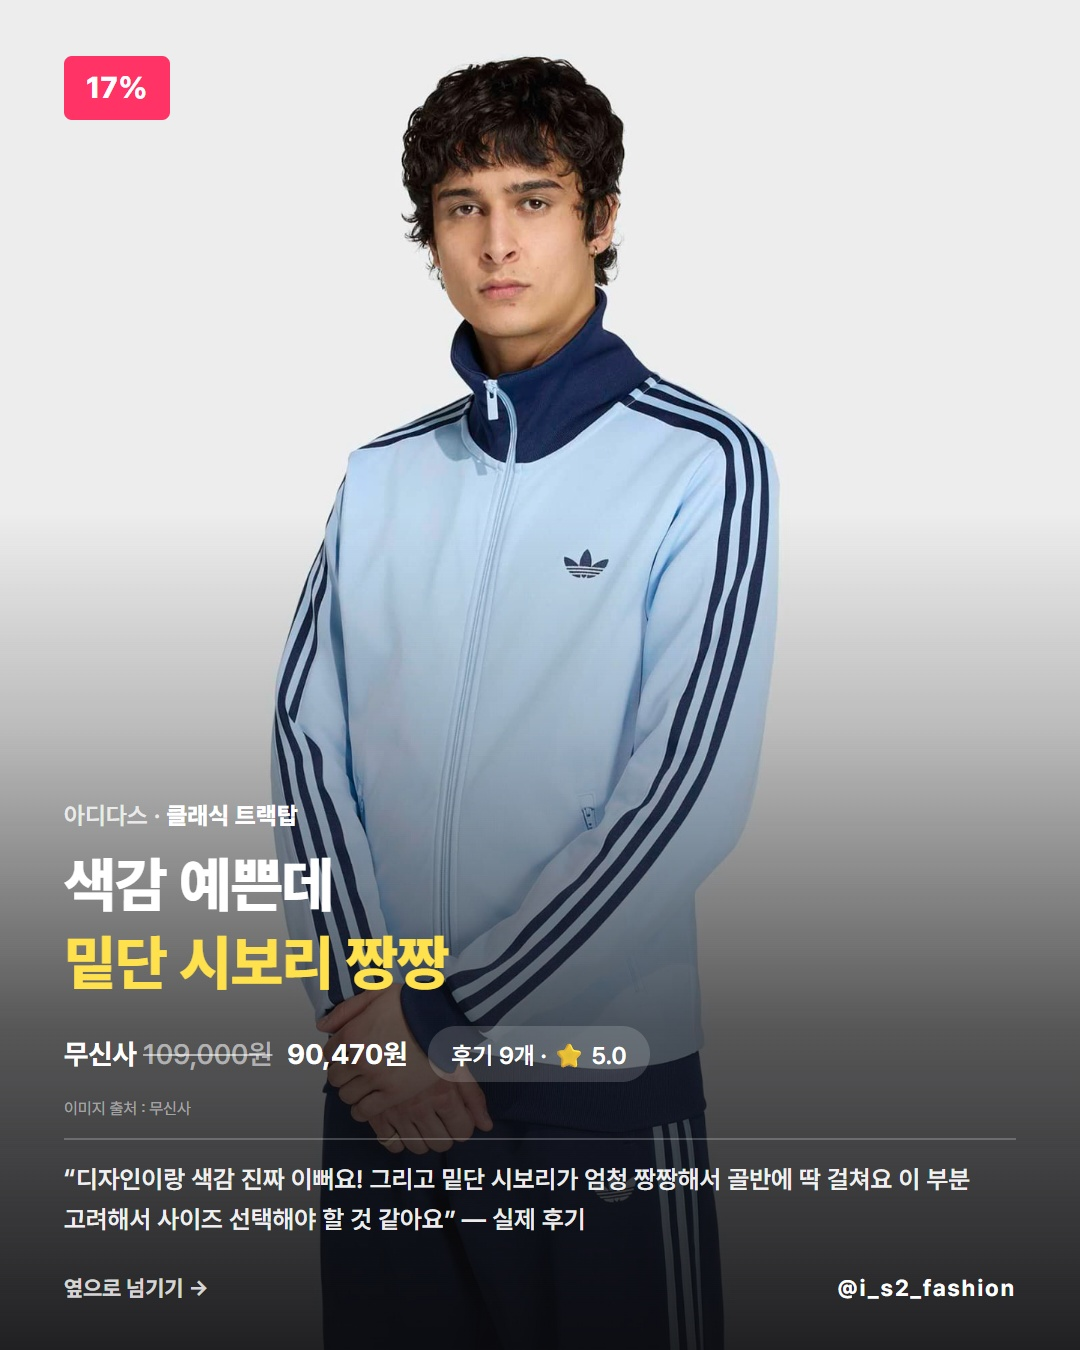
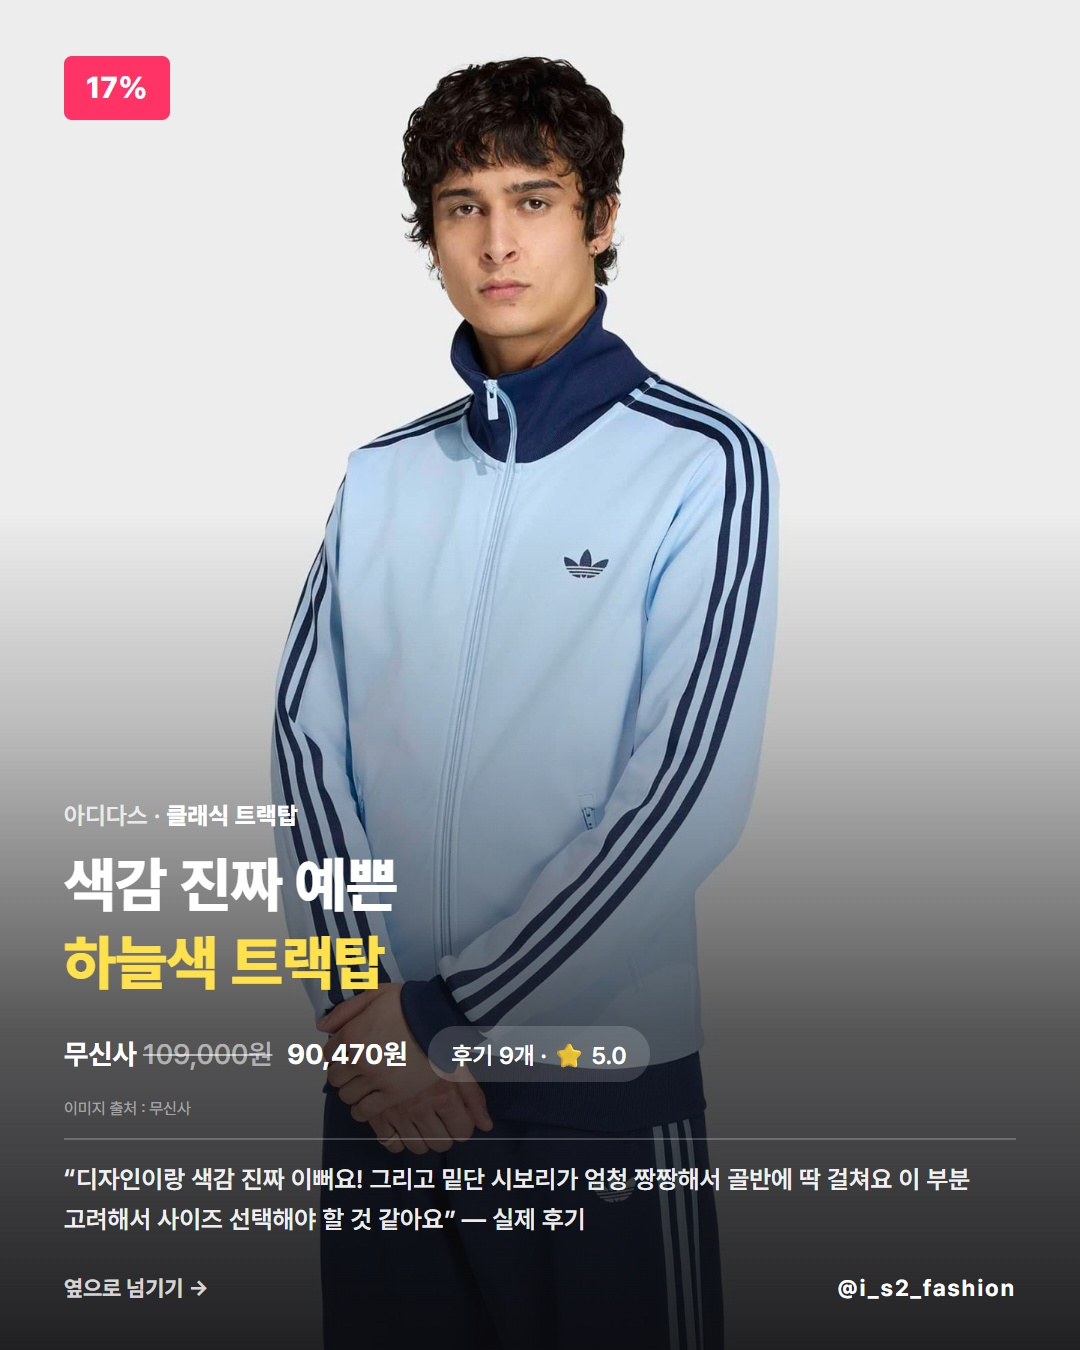
chore: auto-commit by Claude Code (2026-09-04 02:33:49)

Changed region(s): [[0.0611, 0.6222, 0.4278, 0.7467]]

diff --git a/card-drafts/early-autumn-outer/index.html b/card-drafts/early-autumn-outer/index.html
@@ -64,7 +64,7 @@ const cards=[
 {kind:'item',img:'assets/02-decoroso.jpg',pos:'50% 12%',lab:'데꼬로소',badge:'36%',prod:'데꼬로소 · <b>스웨이드 집업 블루종 자켓</b>',title:'툭 걸쳐도<br><em>가을 무드 완성</em>',meta:'무신사 <s>154,000원</s> 98,500원',proof:'후기 59개 · ⭐ 4.9',sp:'“스웨이드 자켓의 근본은 역시 카멜이죠 차분하고 깊이감 있는 톤 다운된 카멜 컬러라 부드러운 스웨이드 질감과 따뜻한 카멜 색상이 만나니 자켓 하나만 툭 걸쳐도 가을에 괜찮게 꾸민느낌으로 멋 낼 수 있어서서 좋더라고요” —&nbsp;실제&nbsp;후기'},
 {kind:'item',img:'assets/03-mixxo-cuff.jpg',pos:'50% 12%',lab:'미쏘',badge:'24%',prod:'미쏘 · <b>하프 트렌치코트</b>',title:'소매를 접으면<br><em>디테일이 보여</em>',meta:'무신사 <s>129,000원</s> 98,040원',proof:'후기 15개 · ⭐ 5.0',sp:'“봄가을에 너무너무 잘 입을거 같아요! 소매 안감 디테일도 너무 귀엽구 .. 색도 맘에들어요🫰🏻🤍 사이즈 s인데도 겁나 커요,, 매장에서 입어보고 온라인주문 추천합니댜 ㅎㅎ” —&nbsp;실제&nbsp;후기'},
 {kind:'item',img:'assets/04-calvin-studio-back.jpg',pos:'50% 12%',lab:'캘빈클라인 진',badge:'40%',prod:'캘빈클라인 진 · <b>콘트라스트 스티치 윈드브레이커</b>',title:'가볍게 걸치고<br><em>뒤는 확실하게</em>',meta:'무신사 <s>219,000원</s> 131,400원',proof:'후기 98개 · ⭐ 4.9',sp:'“뒤에 백로고가 너무 예뻐요. 간절기에 들고 다니고 걸치기 좋은 두께감입니다. 가벼워요” —&nbsp;실제&nbsp;후기'},
-{kind:'item',img:'assets/05-adidas-big.jpg',pos:'50% 12%',lab:'아디다스',badge:'17%',prod:'아디다스 · <b>클래식 트랙탑</b>',title:'색감 예쁜데<br><em>밑단 시보리 짱짱</em>',meta:'무신사 <s>109,000원</s> 90,470원',proof:'후기 9개 · ⭐ 5.0',sp:'“디자인이랑 색감 진짜 이뻐요! 그리고 밑단 시보리가 엄청 짱짱해서 골반에 딱 걸쳐요 이 부분 고려해서 사이즈 선택해야 할 것 같아요” —&nbsp;실제&nbsp;후기'},
+{kind:'item',img:'assets/05-adidas-big.jpg',pos:'50% 12%',lab:'아디다스',badge:'17%',prod:'아디다스 · <b>클래식 트랙탑</b>',title:'색감 진짜 예쁜<br><em>하늘색 트랙탑</em>',meta:'무신사 <s>109,000원</s> 90,470원',proof:'후기 9개 · ⭐ 5.0',sp:'“디자인이랑 색감 진짜 이뻐요! 그리고 밑단 시보리가 엄청 짱짱해서 골반에 딱 걸쳐요 이 부분 고려해서 사이즈 선택해야 할 것 같아요” —&nbsp;실제&nbsp;후기'},
 {kind:'cta',img:'../../CARD/zzal/20260830.jpg',lab:'CTA',title:'다 사고 싶지만<br><em>통장은 하나</em>',sub:'이번 가을 가장 먼저 살 한 벌부터<br>골라서 저장해두세요'}];
 function html(c,i){const handle='@i_s2_fashion';if(c.kind==='cta'){return `<div class="card cta" id="card${i}"><div class="toprow"><span class="handle">&nbsp;</span><span class="num">&nbsp;</span></div><div class="photo"><img src="${c.img}" alt="" onload="sizePhoto(this)"></div><div class="caption"><h2 class="title">${c.title}</h2><p class="sub">${c.sub}</p></div><div class="foot">${handle}</div></div>`}
 let photo=`<div class="photo"><img src="${c.img}" alt="" style="--pos:${c.pos||'50% 15%'}">${c.badge?`<span class="badge">${c.badge}</span>`:''}</div>`;

diff --git a/card-drafts/early-autumn-outer/result.md b/card-drafts/early-autumn-outer/result.md
@@ -77,6 +77,10 @@
     상품 사진(1500×1800, 5:6)과 카드(4:5) 비율이 거의 같아 옷이 거의 잘리지 않는다. 페이지 번호(N/7) 삭제, `@i_s2_fashion`은 모든 카드 오른쪽 하단.
     표지 헤드라인 42px·상품 30px·인용 12.5px. 할인 배지는 왼쪽 위. CTA는 짤 카드 유지, 숫자만 빼고 계정명 오른쪽 하단으로 통일.
 
+17. **자체 피드백 라운드 4 (09-05 · 전면 이미지형 7장 전수)** — 6번 아디다스: 헤드라인이 "밑단 시보리"인데 전면 이미지형에서는 밑단이
+    하단 텍스트·그라데이션 아래에 깔려 잘 안 보인다 → 같은 후기의 첫 문장("디자인이랑 색감 진짜 이뻐요")으로 **"색감 진짜 예쁜 / 하늘색 트랙탑"** 복귀.
+    사진에서 실제로 보이는 것(하늘색 색감)을 헤드라인이 가리키게 맞췄다. 나머지 6장·캡션·CTA 이상 없음.
+
 ## 2. 게시 전 검증 (2026-09-04)
 - 무신사 상품 페이지·후기 API로 5종 가격·할인율·후기 수·평점 실측 (아래 표). 할인 검산 5건 일치
   (69,900×0.91≈63,610 / 154,000×0.64≈98,500 / 129,000×0.76=98,040 / 219,000×0.60=131,400 / 109,000×0.83=90,470).

diff --git a/card-drafts/early-autumn-outer/review-selection.md b/card-drafts/early-autumn-outer/review-selection.md
@@ -18,7 +18,7 @@
 | 데꼬로소 스웨이드 집업 블루종 자켓 카멜 (5359892) | 59개 | 카멜 스웨이드 하나만 툭 걸쳐도 가을 무드 (09-05 폴로 대체) |
 | 미쏘 하프 트렌치코트 (6914777) | 15개 | 봄·가을 활용도와 소매 안감 디테일 (사이즈 크다는 단점 포함) |
 | 캘빈클라인 진 인더시티 콘트라스트 스티치 윈드브레이커 (6064329) | 98개 | 가벼운 간절기 두께와 뒷면 로고 |
-| 아디다스 클래식 트랙탑 KZ1210 (6831825) | 9개 | 색감과 짱짱한 밑단 시보리 (사이즈 유의 포함) |
+| 아디다스 클래식 트랙탑 KZ1210 (6831825) | 9개 | 하늘색 색감 (후기에 밑단 시보리·사이즈 유의도 포함) |
 
 ## 카드에 사용한 실제 후기 (원문 통인용 · 별점 5)
 
